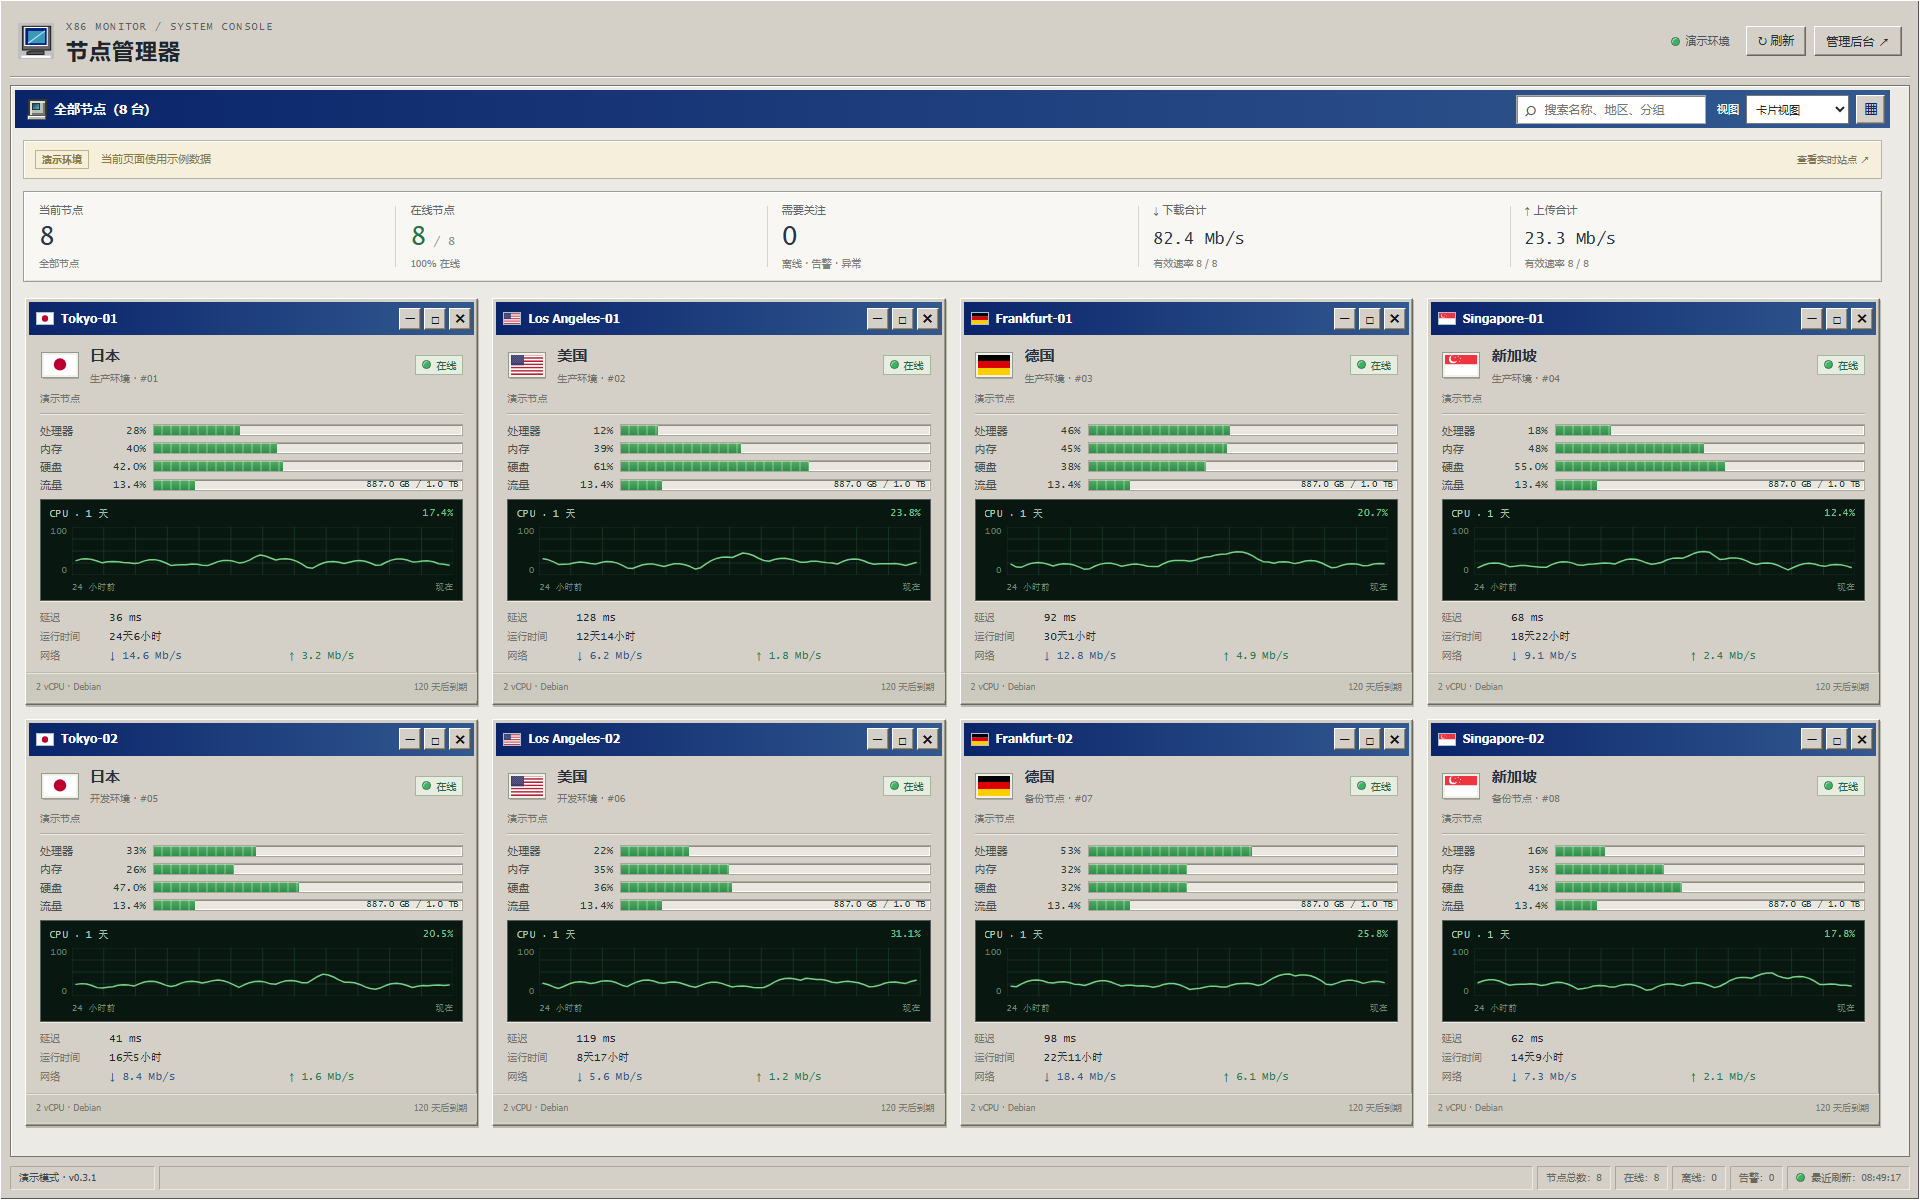
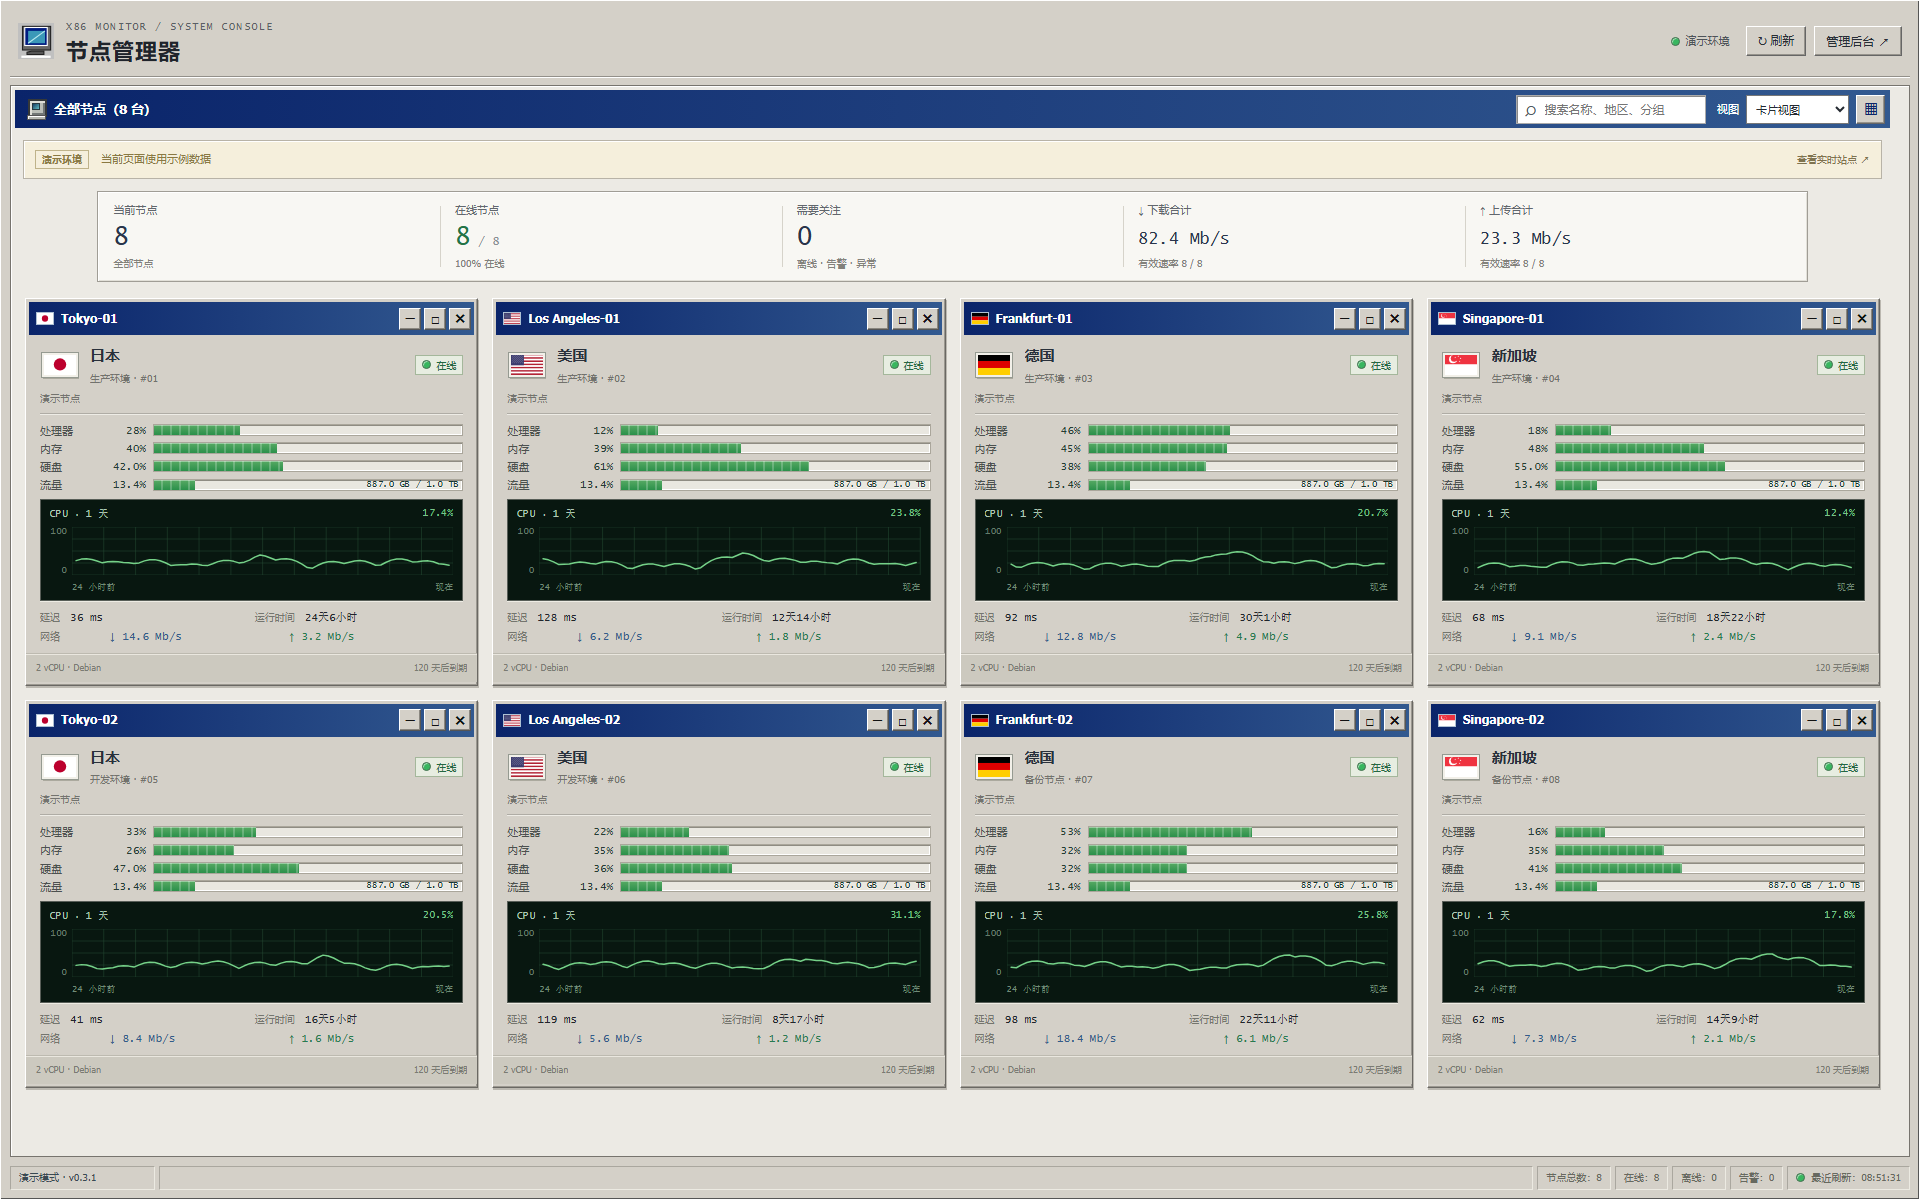
style: align node facts and narrow summary strip

diff --git a/src/styles.css b/src/styles.css
@@ -457,10 +457,11 @@ button:disabled {
   display: none;
 }
 .overview-strip {
+  width: 92%;
   display: grid;
   grid-template-columns: repeat(5, minmax(0, 1fr));
   gap: 0;
-  margin: 0 0 16px;
+  margin: 0 auto 16px;
   background: #f8f7f3;
   border: 1px solid #a09d95;
   box-shadow:
@@ -880,10 +881,14 @@ button:disabled {
   line-height: 1.6;
 }
 .card-facts {
-  display: flex;
-  flex-direction: column;
-  gap: 7px;
+  display: grid;
+  grid-template-columns: repeat(2, minmax(0, 1fr));
+  gap: 7px 12px;
   margin-bottom: 12px;
+}
+.card-facts > .fact:not(.net-fact) {
+  grid-template-columns: max-content minmax(0, 1fr);
+  gap: 10px;
 }
 .fact {
   display: grid;
@@ -906,6 +911,7 @@ button:disabled {
   text-overflow: ellipsis;
 }
 .fact.net-fact {
+  grid-column: 1 / -1;
   grid-template-columns: 65px minmax(0, 1fr) minmax(0, 1fr);
   gap: 4px;
 }
@@ -1773,6 +1779,9 @@ button:disabled {
   }
 }
 @media (max-width: 540px) {
+  .overview-strip {
+    width: 100%;
+  }
   .desktop-shell {
     padding: 5px;
     gap: 6px;
